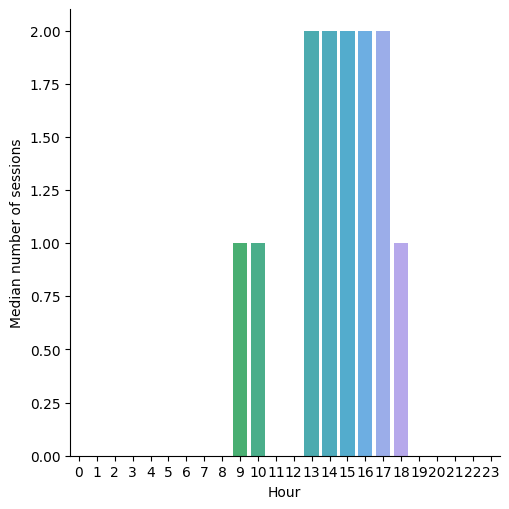
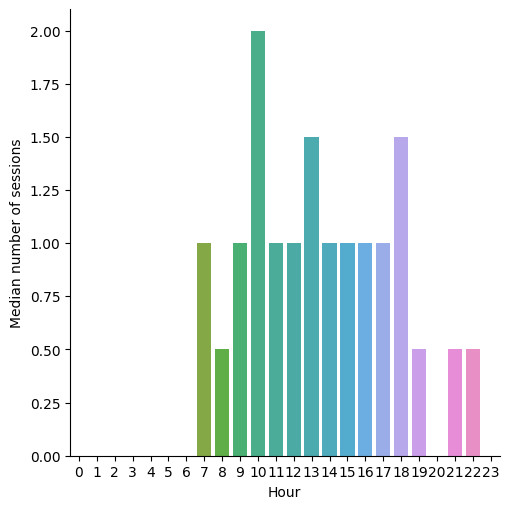
"Stats generated 2021-10-21"

diff --git a/all/2021/10/days/20/index.html b/all/2021/10/days/20/index.html
@@ -1,0 +1,29 @@
+<!DOCTYPE html>
+<html>
+  <head>
+    <meta charset="utf-8"/>
+    <title>20 October 2021</title>
+    <link rel="stylesheet" href="../../../../../styles.css"/>
+  </head>
+  <body>
+    <div id="container">
+      <nav>
+        <ul>
+          
+            <li><a href="../../">October 2021</a></li>
+            <li class="separator"></li>
+          
+          
+        </ul>
+      </nav>
+      <main>
+        <h1>20 October 2021</h1>
+        
+          <h2>Number of sessions per hour</h2>
+          <img src="sessions.png" alt="Number of sessions per hour"/>
+        
+        
+      </main>
+    </div>
+  </body>
+</html>

diff --git a/all/2021/index.html b/all/2021/index.html
@@ -143,9 +143,9 @@
                   
                     <td>10.0</td>
                   
-                    <td>142.0</td>
+                    <td>153.0</td>
                   
-                    <td>25.183257375</td>
+                    <td>25.490694233333333</td>
                   
                 </tr>
               

diff --git a/all/2021/10/index.html b/all/2021/10/index.html
@@ -110,6 +110,10 @@
               <li><a href="days/19/">19</a></li>
             
           
+            
+              <li><a href="days/20/">20</a></li>
+            
+          
         </ul>
       </nav>
       <main>
